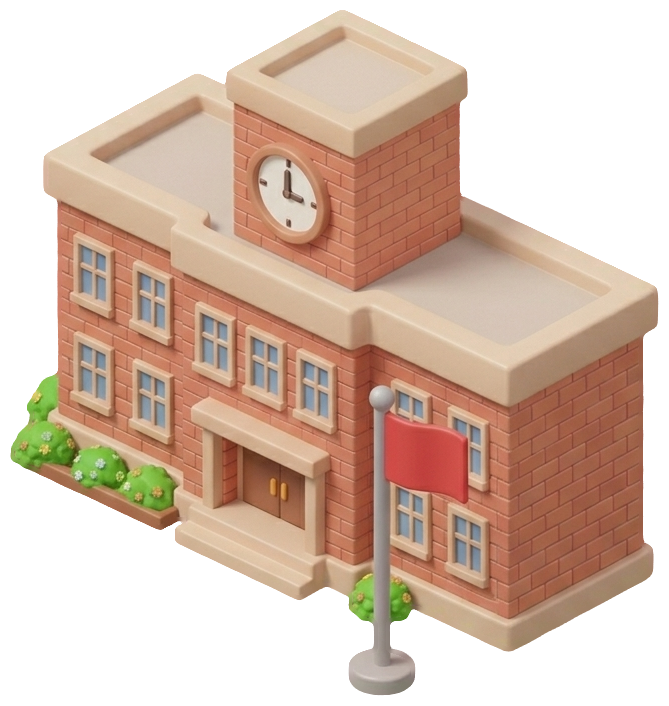
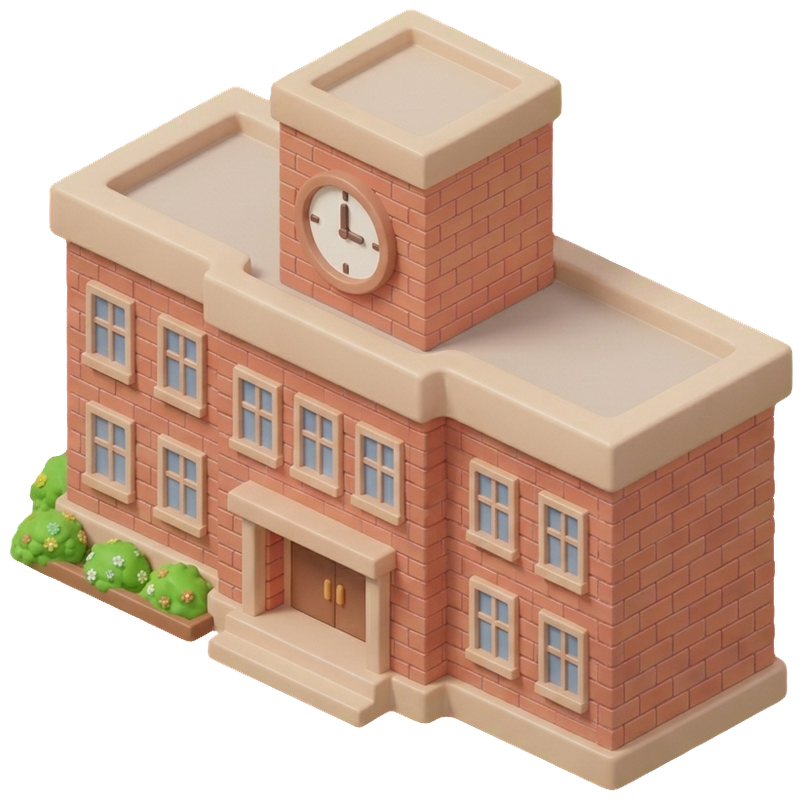
Школа без прапора, менша й лівіше
- bld_school: нова картинка без прапора, на 20% менша, зсунута ліворуч, щоб прилавок не стояв на ній

diff --git a/src/render/spriteMeta.ts b/src/render/spriteMeta.ts
@@ -39,7 +39,7 @@ export const SPRITE_META: Record<string, SpriteMeta> = {
   char_fox_back: { h: 54, anchor: [0.5, 0.975] },
   char_fox_dizzy: { h: 64, anchor: [0.5, 0.975] },
   bld_house_yard: { h: 180, anchor: [0.5, 0.69] },
-  bld_school: { h: 380, anchor: [0.5, 0.7] },
+  bld_school: { h: 288, anchor: [0.5, 0.66] },
   bld_fountain: { h: 112, anchor: [0.5, 0.71] },
   bld_lifeguard: { h: 135, anchor: [0.5, 0.84] },
   // stand layers: every picture sits at its own spot around the table (dx, dy from the stand centre)

diff --git a/src/data/locations.ts b/src/data/locations.ts
@@ -185,7 +185,7 @@ export const LOCATIONS: Record<LocationId, LocationDef> = {
       G12,
     ],
     decor: [
-      { id: 'bld_school', x: -0.3, y: 0.7, w: 8.2, d: 2.3, back: true }, // the entrance is next to the stand
+      { id: 'bld_school', x: -1.3, y: 1.5, w: 8.2, d: 2.3, back: true }, // the stand stands beside the entrance, not on the building
       { id: 'prop_flagpole', x: 9.6, y: 1.4 },
       { id: 'prop_tree_a', x: 11.0, y: 0.7 },
       { id: 'prop_tree_c', x: 11.2, y: 3.0, s: 0.8 },
